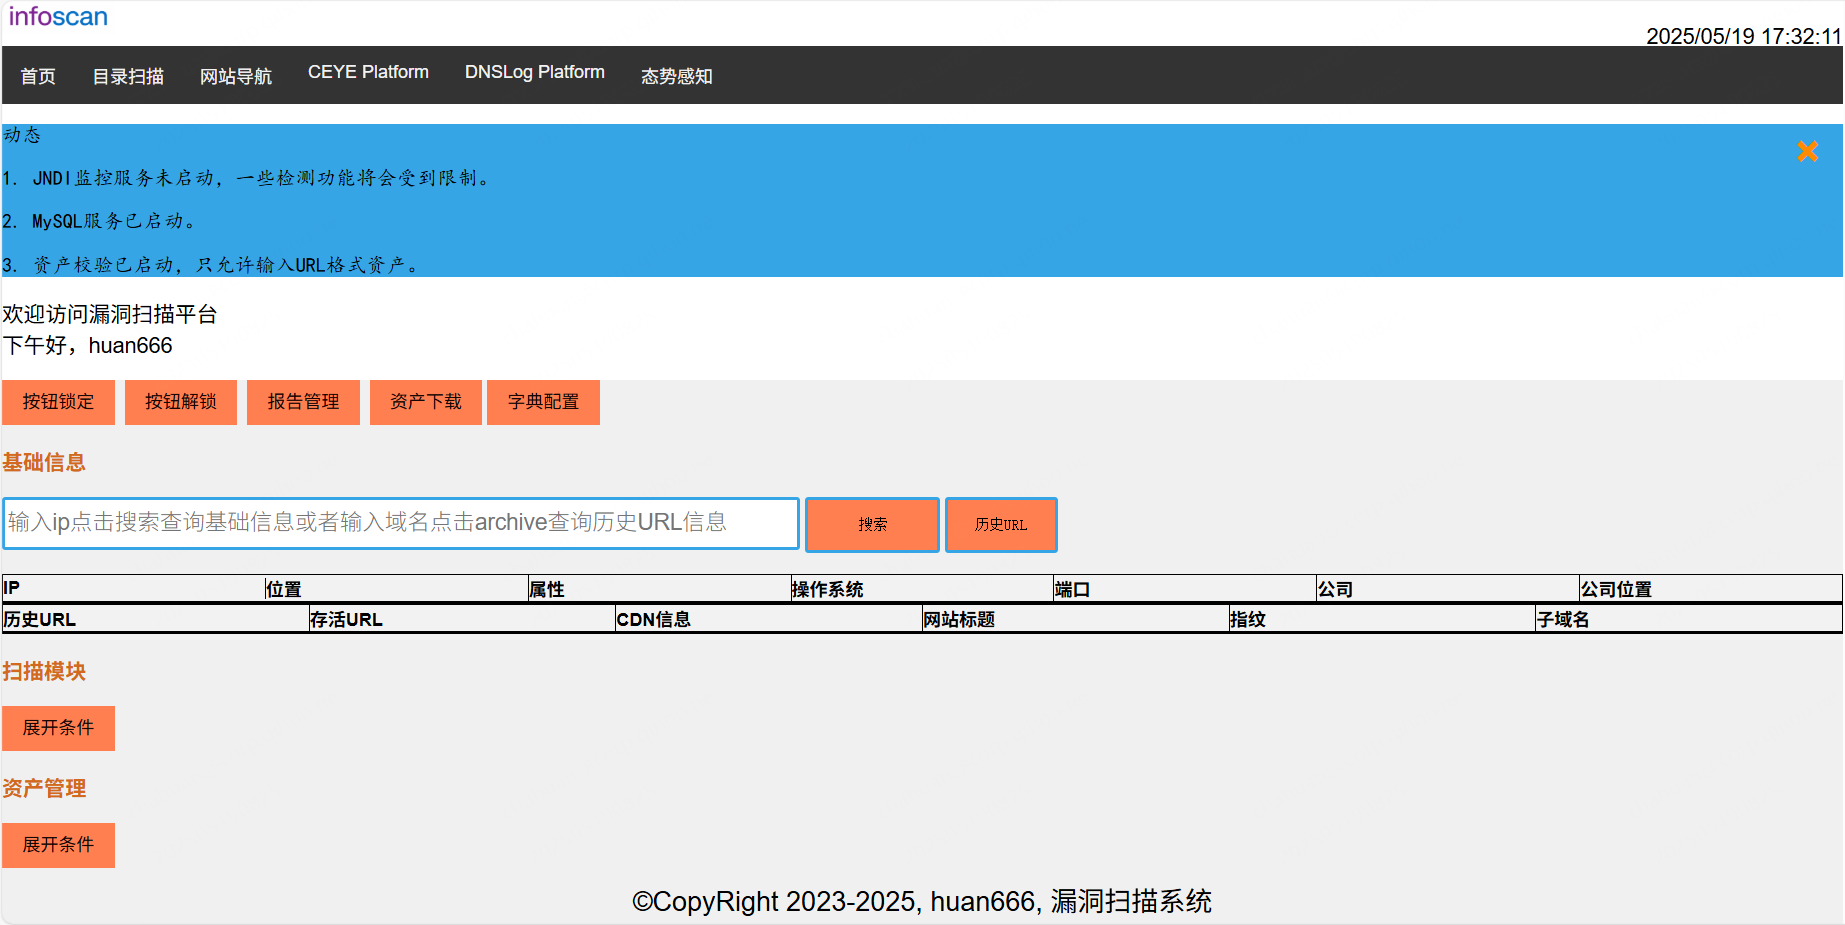
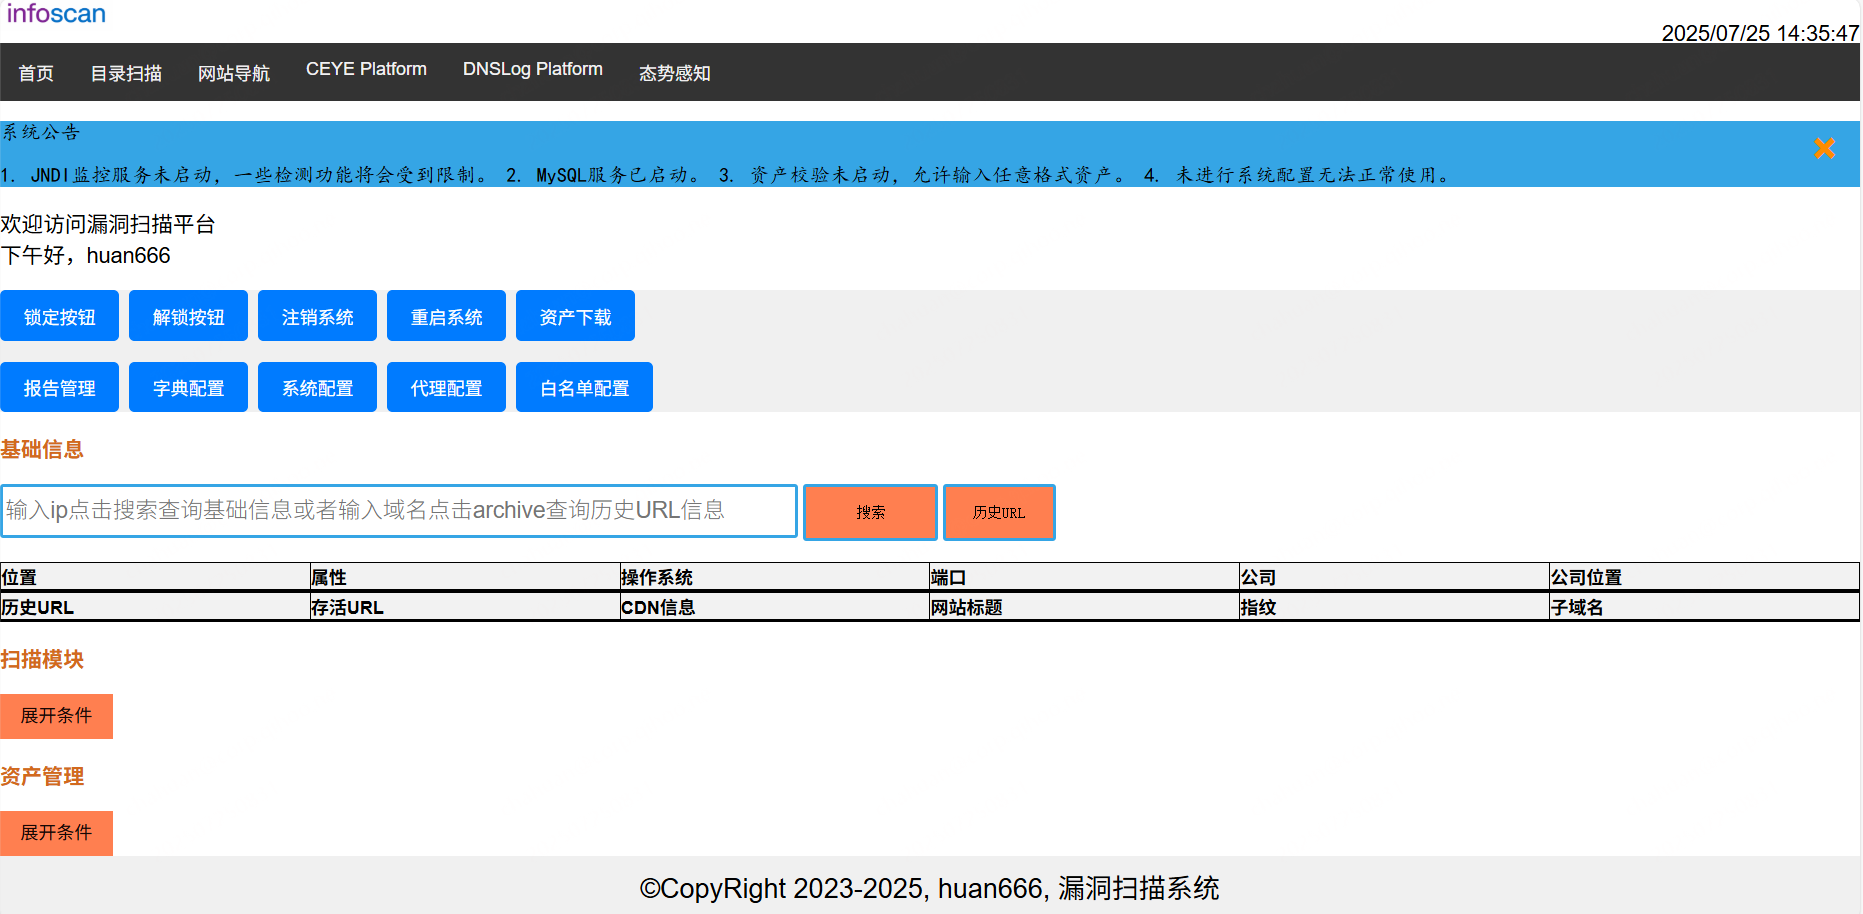
系统优化

Changed region(s): [[0.0, 0.1532, 1.0, 0.9497], [0.0, 0.0, 1.0, 0.1532], [0.3398, 0.9497, 0.6797, 1.0]]

diff --git a/templates/index.html b/templates/index.html
@@ -33,10 +33,8 @@
 
 	<div class="middle-menu" id="systemshowid1">
 		<span class="close" onclick="closesystemshow()">&times;</span>
-		<p>动态</p>
-		<p>{{data31}}</p>
-		<p>{{data32}}</p>
-		<p>{{data33}}</p>
+		<p>系统公告</p>
+		<p>{{data31}}&nbsp;{{data32}}&nbsp;{{data33}}&nbsp;{{data34}}</p>
 	</div>
 
 	<div class="content">
@@ -45,28 +43,32 @@
 
 		<div class="dropdown">
 			<span class="dropdown-span">{{data30}}，{{data20}}</span>
-			<div class="dropdown-content">
+			<!-- <div class="dropdown-content">
 				<a href="#siginout" onclick="signoutfunc()">注销</a>
 				<a href="#rebootserver" onclick="systemrebootfunc()">重启</a>
 				<a href="#systemconfig" onclick="startscanconfigpagefunc()">系统配置</a>
 				<a href="#globalwhiteconfig" onclick="openwhiteupwindowsfunc()">全局白名单配置</a>
 				<a href="#systemproxyconf" onclick="opensystemproxyconffunc()">系统代理配置</a>
-			</div>
+				
+			</div> -->
 		</div>
-
-
-
+		<!-- 引入tanchuang.html文件 -->
 		{% include 'tanchuang.html' %}
 		<br><br>
 		<div class="button-container">
-
-			<span class="my-spanconfig11" onclick="stopbutton()">按钮锁定</span>&nbsp;
-			<span class="my-spanconfig11" onclick="startbutton()">按钮解锁</span>&nbsp;
-			<span class="my-spanconfig11" onclick="reportmanagerfunc()">报告管理</span>&nbsp;
-			<span class="my-spanconfig11" onclick="assetdownloadfunc()">资产下载</span>
-			<span onclick="hydradictfunc()" style="cursor: pointer;" class="my-spanconfig11">字典配置</span>
-
-			</di>
+			<button class="button edit-button" onclick="stopbutton()">锁定按钮</button>&nbsp; 
+			<button class="button edit-button" onclick="startbutton()">解锁按钮</button>&nbsp; 
+			<button class="button edit-button" onclick="signoutfunc()">注销系统</button>&nbsp; 
+			<button class="button edit-button" onclick="systemrebootfunc()">重启系统</button>&nbsp; 
+			<button class="button edit-button" onclick="assetdownloadfunc()">资产下载</button>&nbsp;
+			
+			<br><br>
+			<button class="button edit-button" onclick="reportmanagerfunc()">报告管理</button>&nbsp;
+			<button class="button edit-button" onclick="hydradictfunc()">字典配置</button>&nbsp; 
+			<button class="button edit-button" onclick="startscanconfigpagefunc()">系统配置</button>&nbsp; 
+			<button class="button edit-button" onclick="opensystemproxyconffunc()">代理配置</button>&nbsp; 
+			<button class="button edit-button" onclick="openwhiteupwindowsfunc()">白名单配置</button>&nbsp; 
+			</div>
 
 
 
@@ -83,7 +85,7 @@
 			<br>
 
 			<div class="div-container" style="background-color:#f2f2f2">
-				<div class="inner-div"><strong>IP</strong></div>
+				<!-- <div class="inner-div"><strong>IP</strong></div> -->
 				<div class="inner-div"><strong>位置</strong></div>
 				<div class="inner-div"><strong>属性</strong></div>
 				<div class="inner-div"><strong>操作系统</strong></div>
@@ -92,9 +94,9 @@
 				<div class="inner-div"><strong>公司位置</strong></div>
 			</div>
 			<div class="div-container">
-				<div class="inner-div">
+				<!-- <div class="inner-div">
 					{{data2}}
-				</div>
+				</div> -->
 				<div class="inner-div">
 					{{data5}}
 				</div>

diff --git a/static/css/common.css b/static/css/common.css
@@ -110,13 +110,17 @@ th {
 	border: 1px solid #000;
 }
 
+/* 基础信息查询 */
 .inner-div {
 	flex: 1;
 	border-right: 1px solid #000;
+	
+	width: 150px;
 }
 
 .inner-div:last-child {
 	border-right: none;
+	
 }
 
 select {
@@ -954,4 +958,3 @@ body {
 	color: #ff7f00;
 	width: 150px;
 }
-

diff --git a/scan_main_web.py b/scan_main_web.py
@@ -293,7 +293,8 @@ def index():
             assets_status_result = "3. 资产校验已启动，只允许输入URL格式资产。"
         else:
             assets_status_result = "3. 资产校验未启动，允许输入任意格式资产。"
-        return render_template('index.html',data20=str(user),data21=asset_file_list,data30 = str(period_time),data31=str(jndi_status_result),data32=str(mysql_status_result),data33=str(assets_status_result))
+
+        return render_template('index.html',data20=str(user),data21=asset_file_list,data30 = str(period_time),data31=str(jndi_status_result),data32=str(mysql_status_result),data33=str(assets_status_result),data34="4. 未进行系统配置无法正常使用。")
     else:
         return render_template('login.html')
 

diff --git a/readme.md b/readme.md
@@ -104,6 +104,11 @@ https://github.com/huan-cdm/Surf-the-Internet-scientifically<br>
 <h2>更新日志：</h2>
 <ul>
 <li>
+2025-7-25更新<br> 
+1.前端页面优化；<br>
+2.已知问题处理与优化；<br>
+</li>
+<li>
 2025-7-21更新<br> 
 1.新增JWT密钥爆破功能；<br>
 2.新增JWT签名算法可被修改为none；<br>
